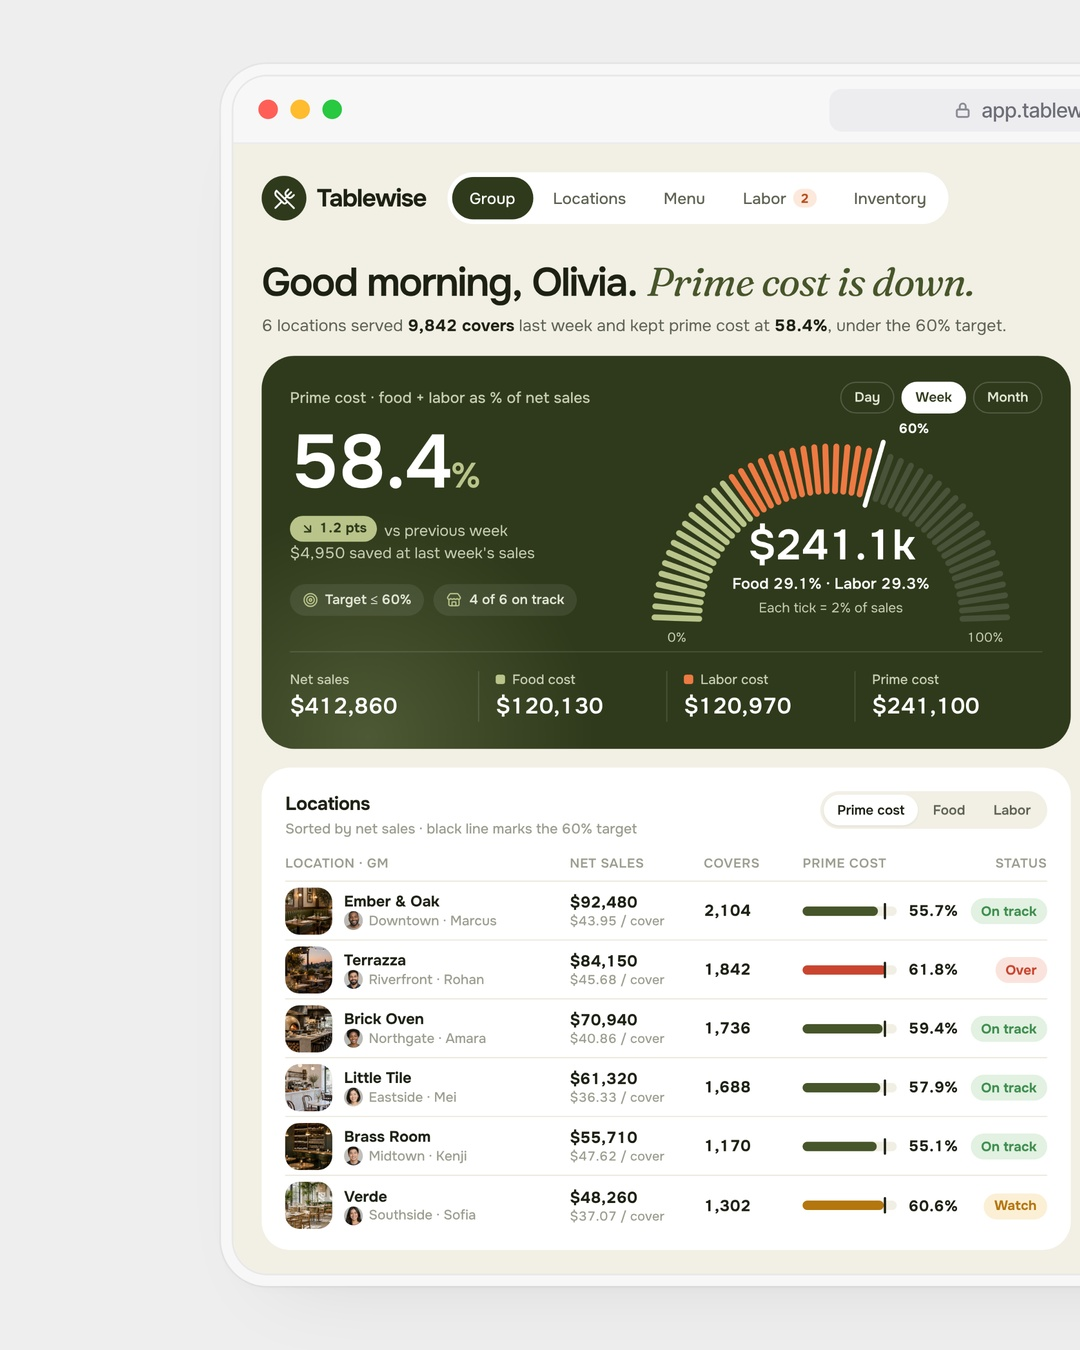
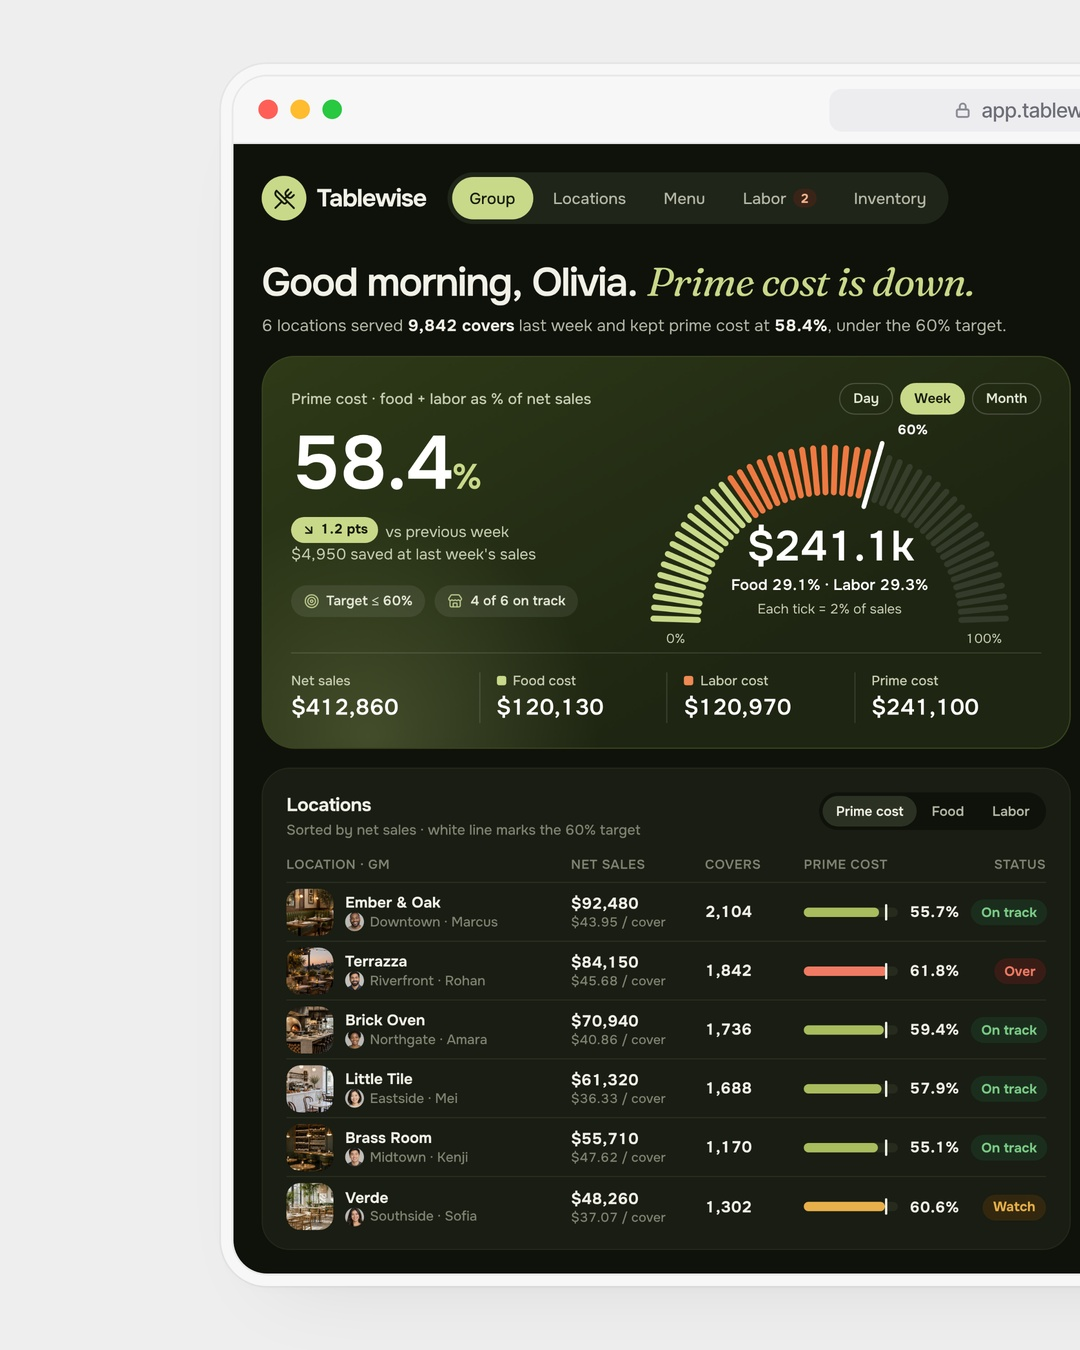
Switch to dark-only posts from 2026-11-25 am; Tablewise dashboard re-rendered dark
Light app/website slots go back to planned for dark redesigns that need owner approval.

Claude-Session: https://claude.ai/code/session_01Rx7czzT9PpRg1HyNHJDzdx

diff --git a/designs/2026-11-25-am-tablewise-restaurant-dashboard/screen.html b/designs/2026-11-25-am-tablewise-restaurant-dashboard/screen.html
@@ -121,16 +121,42 @@ html,body{width:1440px;height:960px;overflow:hidden;background:var(--bg);font-fa
 .sh .tx b{color:var(--ink);font-size:12px}
 .abtn{display:flex;gap:8px;margin-top:12px}
 .abtn span{flex:1;height:36px;border-radius:999px;display:flex;align-items:center;justify-content:center;gap:6px;font-size:12.5px;font-weight:600}
+:root{--bg:#0F120B;--card:#191D13;--line:#2A2F21;--ink:#F2F1E8;--ink2:#B4B8A6;--ink3:#7F8473;--ol:#C9D98A;--ol2:#A9BC5E;--ol3:#C9D98A;--ol4:#22281A;--ap:#F08A55;--ap2:#3A2418;--gr:#7BCB86;--gr2:#1B2E1E;--am:#E8B04A;--am2:#33280F;--rd:#F07A63;--rd2:#3A1C17;--sf:#20251A}
+/* dark theme overrides */
+.ib,.btn,.nav,.srch,.user,.stack{background:var(--sf)}
+.ib b{border-color:var(--sf)}
+.srch kbd{border-color:#363C2C}
+.nav a.on{background:var(--ol);color:#151A0C}
+.nav a em{color:#F7B48F}
+.logo i{background:var(--ol)}
+.prim{background:var(--ol);color:#151A0C}
+.stack .ph,.stack em{border-color:var(--sf)}
+.seg span.on{background:#2C3223;color:var(--ink);box-shadow:none}
+.hero{background:linear-gradient(150deg,#2E3A18 0%,#1E2512 70%);border:1px solid #39441F}
+.hero:before{background:radial-gradient(circle,rgba(201,217,138,.20),rgba(201,217,138,0) 66%)}
+.hk .tg span.on{background:var(--ol);color:#151A0C;border-color:var(--ol)}
+.hl .d .pill{background:var(--ol);color:#151A0C}
+.big small{color:var(--ol)}
+.pb .bar{background:#262B1E}
+.pb .bar u{background:#F2F1E8}
+.k .kt i{background:#262B1E}
+.k.fill{background:var(--ap);color:#1A0E07}
+.k.fill .kt{color:#3B1C0C}.k.fill .kt i{background:rgba(0,0,0,.12)}.k.fill .kv small,.k.fill .ks{color:#4A2410}
+.al{background:linear-gradient(160deg,#243016,#191D13);border:1px solid #2F3A1C}
+.ai .ic{background:var(--ol)}
+.alt{background:#232A19}
+.card{border:1px solid #23281B}
+.greet h1 .serif{color:var(--ol)}
 </style></head><body>
 <div class="page">
  <div class="top">
-  <div class="logo"><i>{{icon:utensils-crossed:19:#ffffff:2}}</i>Tablewise</div>
+  <div class="logo"><i>{{icon:utensils-crossed:19:#151A0C:2}}</i>Tablewise</div>
   <div class="nav"><a class="on">Group</a><a>Locations</a><a>Menu</a><a>Labor <em>2</em></a><a>Inventory</a></div>
  </div>
  <div class="top">
-  <div class="srch">{{icon:search:17:#9A9D8E}}Search locations, dishes, staff…<kbd>⌘K</kbd></div>
-  <div class="ib">{{icon:bell:18:#1D2114}}<b></b></div>
-  <div class="ib">{{icon:settings-2:18:#1D2114}}</div>
+  <div class="srch">{{icon:search:17:#7F8473}}Search locations, dishes, staff…<kbd>⌘K</kbd></div>
+  <div class="ib">{{icon:bell:18:#F2F1E8}}<b></b></div>
+  <div class="ib">{{icon:settings-2:18:#F2F1E8}}</div>
   <div class="user"><div class="ph" style="width:40px;height:40px;background-image:url(olivia.jpg)"></div><div><b>Olivia Grant</b><span>Director of Ops · Fennel Group</span></div></div>
  </div>
 
@@ -139,9 +165,9 @@ html,body{width:1440px;height:960px;overflow:hidden;background:var(--bg);font-fa
   <p>6 locations served <b>9,842 covers</b> last week and kept prime cost at <b>58.4%</b>, under the 60% target.</p>
  </div>
  <div class="acts">
-  <div class="btn">{{icon:calendar:16:#1D2114}}Nov 18 – Nov 24{{icon:chevron-down:15:#9A9D8E}}</div>
-  <div class="btn">{{icon:download:16:#1D2114}}Export</div>
-  <div class="btn prim">{{icon:sparkles:16:#ffffff}}Ask Tablewise</div>
+  <div class="btn">{{icon:calendar:16:#F2F1E8}}Nov 18 – Nov 24{{icon:chevron-down:15:#7F8473}}</div>
+  <div class="btn">{{icon:download:16:#F2F1E8}}Export</div>
+  <div class="btn prim">{{icon:sparkles:16:#151A0C}}Ask Tablewise</div>
   <div class="stack"><div class="ph" style="background-image:url(marcus.jpg)"></div><div class="ph" style="background-image:url(mei.jpg)"></div><div class="ph" style="background-image:url(rohan.jpg)"></div><em>+3</em></div>
  </div>
 
@@ -152,7 +178,7 @@ html,body{width:1440px;height:960px;overflow:hidden;background:var(--bg);font-fa
    <div class="hmain">
     <div class="hl">
      <div class="big">58.4<small>%</small></div>
-     <div class="d"><span class="pill">{{icon:arrow-down-right:12:#2F3A1C:2.5}}1.2 pts</span>vs previous week<br>$4,950 saved at last week's sales</div>
+     <div class="d"><span class="pill">{{icon:arrow-down-right:12:#151A0C:2.5}}1.2 pts</span>vs previous week<br>$4,950 saved at last week's sales</div>
      <div class="tgt"><span>{{icon:target:13:#B9C48A}}Target ≤ 60%</span><span>{{icon:store:13:#B9C48A}}4 of 6 on track</span></div>
     </div>
     <div class="gauge"><svg id="g" width="360" height="190" viewBox="0 0 360 190" style="overflow:visible"></svg>
@@ -168,7 +194,7 @@ html,body{width:1440px;height:960px;overflow:hidden;background:var(--bg);font-fa
   </div>
 
   <div class="card tbl">
-   <div class="ch"><div><div class="t">Locations</div><div class="s">Sorted by net sales · black line marks the 60% target</div></div>
+   <div class="ch"><div><div class="t">Locations</div><div class="s">Sorted by net sales · white line marks the 60% target</div></div>
     <div class="seg"><span class="on">Prime cost</span><span>Food</span><span>Labor</span></div></div>
    <div class="th"><div>Location · GM</div><div>Net sales</div><div>Covers</div><div>Prime cost</div><div style="text-align:right">Status</div></div>
    <div class="tr"><div class="loc"><div class="pimg" style="width:40px;height:40px;background-image:url(r1.jpg)"></div><div><b>Ember &amp; Oak</b><span><i class="ph" style="background-image:url(marcus.jpg)"></i>Downtown · Marcus</span></div></div><div class="v">$92,480<small>$43.95 / cover</small></div><div class="v">2,104</div><div class="pb"><div class="bar"><i style="width:79.6%;background:var(--ol2)"></i><u></u></div><b>55.7%</b></div><div style="text-align:right"><span class="pill ok">On track</span></div></div>
@@ -183,10 +209,10 @@ html,body{width:1440px;height:960px;overflow:hidden;background:var(--bg);font-fa
  <!-- RIGHT HALF -->
  <div class="half">
   <div class="kpis">
-   <div class="k fill"><div class="kt">Covers<i>{{icon:users:14:#ffffff}}</i></div><div class="kv">9,842</div><div class="ks"><b>+4.1%</b> vs last week</div></div>
-   <div class="k card"><div class="kt">Avg check<i>{{icon:receipt:14:#1D2114}}</i></div><div class="kv">$41.95</div><div class="ks"><b style="color:var(--gr)">+$1.20</b> per cover</div></div>
-   <div class="k card"><div class="kt">Table turns<i>{{icon:refresh-ccw:14:#1D2114}}</i></div><div class="kv">2.6<small>×</small></div><div class="ks">dinner · <b style="color:var(--gr)">+0.2</b></div></div>
-   <div class="k card"><div class="kt">Food waste<i>{{icon:trash-2:14:#1D2114}}</i></div><div class="kv">2.8<small>%</small></div><div class="ks">of food cost · <b style="color:var(--gr)">−0.6 pts</b></div></div>
+   <div class="k fill"><div class="kt">Covers<i>{{icon:users:14:#1A0E07}}</i></div><div class="kv">9,842</div><div class="ks"><b>+4.1%</b> vs last week</div></div>
+   <div class="k card"><div class="kt">Avg check<i>{{icon:receipt:14:#F2F1E8}}</i></div><div class="kv">$41.95</div><div class="ks"><b style="color:var(--gr)">+$1.20</b> per cover</div></div>
+   <div class="k card"><div class="kt">Table turns<i>{{icon:refresh-ccw:14:#F2F1E8}}</i></div><div class="kv">2.6<small>×</small></div><div class="ks">dinner · <b style="color:var(--gr)">+0.2</b></div></div>
+   <div class="k card"><div class="kt">Food waste<i>{{icon:trash-2:14:#F2F1E8}}</i></div><div class="kv">2.8<small>%</small></div><div class="ks">of food cost · <b style="color:var(--gr)">−0.6 pts</b></div></div>
   </div>
 
   <div class="card chart">
@@ -206,13 +232,13 @@ html,body{width:1440px;height:960px;overflow:hidden;background:var(--bg);font-fa
     </div>
    </div>
    <div class="card al" style="width:316px;flex:none">
-    <div class="ai"><div class="ic">{{icon:sparkles:17:#ffffff}}</div><div><div class="t">Tablewise suggests</div><div class="s" style="color:var(--ink2)">2 fixes · about $1,380 a week</div></div></div>
+    <div class="ai"><div class="ic">{{icon:sparkles:17:#151A0C}}</div><div><div class="t">Tablewise suggests</div><div class="s" style="color:var(--ink2)">2 fixes · about $1,380 a week</div></div></div>
     <div class="alt">
      <h4><span class="pill ov">Labor</span>Terrazza, tonight</h4>
      <p><b>3 servers</b> are scheduled past 21:30, but only <b>14 covers</b> are booked after 21:00.</p>
-     <div class="sh"><div class="ph" style="background-image:url(daniel.jpg)"></div><div class="ph" style="background-image:url(karim.jpg)"></div><span class="ar">{{icon:arrow-right:14:#9A9D8E}}</span><div class="tx"><b>Cut 1 shift at 21:30</b><br>saves $96 tonight</div></div>
+     <div class="sh"><div class="ph" style="background-image:url(daniel.jpg)"></div><div class="ph" style="background-image:url(karim.jpg)"></div><span class="ar">{{icon:arrow-right:14:#7F8473}}</span><div class="tx"><b>Cut 1 shift at 21:30</b><br>saves $96 tonight</div></div>
     </div>
-    <div class="abtn"><span style="background:var(--ol);color:#fff">{{icon:check:14:#ffffff:2.5}}Apply</span><span style="background:#fff">Review all</span></div>
+    <div class="abtn"><span style="background:var(--ol);color:#151A0C">{{icon:check:14:#151A0C:2.5}}Apply</span><span style="background:#2C3223">Review all</span></div>
    </div>
   </div>
  </div>
@@ -223,8 +249,8 @@ html,body{width:1440px;height:960px;overflow:hidden;background:var(--bg);font-fa
  const g=document.getElementById('g'),cx=180,cy=170,r1=112,r2=150,N=50;let s='';
  for(let i=0;i<N;i++){
   const a=Math.PI*(1-(i+0.5)/N),c=Math.cos(a),n=Math.sin(a);
-  const v=(i+0.5)*2; let col='rgba(255,255,255,.13)';
-  if(v<=29.1)col='#B9C48A'; else if(v<=58.4)col='#EE7A43';
+  const v=(i+0.5)*2; let col='rgba(255,255,255,.10)';
+  if(v<=29.1)col='#C9D98A'; else if(v<=58.4)col='#EE7A43';
   const big=(i==29);
   const ri=big?r1-8:r1, ro=big?r2+10:r2;
   s+=`<line x1="${cx+ri*c}" y1="${cy-ri*n}" x2="${cx+ro*c}" y2="${cy-ro*n}" stroke="${big?'#ffffff':col}" stroke-width="${big?4:5}" stroke-linecap="round"/>`;
@@ -243,16 +269,16 @@ html,body{width:1440px;height:960px;overflow:hidden;background:var(--bg);font-fa
  const y=[1.8,6.4,7.1,3.2,1.9,2.4,5.6,8.9,10.4,7.8,3.9,1.5];
  const ly=[1.6,6.0,6.6,3.4,1.7,2.1,5.0,8.3,9.6,7.4,3.6,1.7];
  const L=40,R=640,T=12,B=192,max=12;const X=i=>L+(R-L)/12*(i+.5),Y=v=>B-(B-T)*v/max,bw=30;let s='';
- for(let v=0;v<=12;v+=3){s+=`<line x1="${L}" x2="${R}" y1="${Y(v)}" y2="${Y(v)}" stroke="#ECE8DC" ${v?'stroke-dasharray="3 4"':''}/><text x="${L-10}" y="${Y(v)+4}" text-anchor="end" font-family="Onest" font-size="11" fill="#9A9D8E">$${v}k</text>`}
- s+=`<defs><pattern id="h" width="6" height="6" patternUnits="userSpaceOnUse" patternTransform="rotate(45)"><rect width="6" height="6" fill="#E6EBCF"/><line x1="0" y1="0" x2="0" y2="6" stroke="#CFD8A8" stroke-width="2.4"/></pattern></defs>`;
- y.forEach((v,i)=>{const hi=i==8;s+=`<rect x="${X(i)-bw/2}" y="${Y(v)}" width="${bw}" height="${B-Y(v)}" rx="8" fill="${hi?'#46552A':'url(#h)'}"/>`;
-  s+=`<text x="${X(i)}" y="${B+20}" text-anchor="middle" font-family="Onest" font-size="11" fill="${hi?'#1D2114':'#9A9D8E'}" font-weight="${hi?700:400}">${hrs[i]}:00</text>`});
+ for(let v=0;v<=12;v+=3){s+=`<line x1="${L}" x2="${R}" y1="${Y(v)}" y2="${Y(v)}" stroke="#2A2F21" ${v?'stroke-dasharray="3 4"':''}/><text x="${L-10}" y="${Y(v)+4}" text-anchor="end" font-family="Onest" font-size="11" fill="#7F8473">$${v}k</text>`}
+ s+=`<defs><pattern id="h" width="6" height="6" patternUnits="userSpaceOnUse" patternTransform="rotate(45)"><rect width="6" height="6" fill="#23291A"/><line x1="0" y1="0" x2="0" y2="6" stroke="#3B4528" stroke-width="2.4"/></pattern></defs>`;
+ y.forEach((v,i)=>{const hi=i==8;s+=`<rect x="${X(i)-bw/2}" y="${Y(v)}" width="${bw}" height="${B-Y(v)}" rx="8" fill="${hi?'#C9D98A':'url(#h)'}"/>`;
+  s+=`<text x="${X(i)}" y="${B+20}" text-anchor="middle" font-family="Onest" font-size="11" fill="${hi?'#F2F1E8':'#7F8473'}" font-weight="${hi?700:400}">${hrs[i]}:00</text>`});
  let p='';ly.forEach((v,i)=>{p+=(i?'L':'M')+X(i)+' '+Y(v)});
- s+=`<path d="${p}" fill="none" stroke="#EE7A43" stroke-width="2.5" stroke-linejoin="round" stroke-dasharray="1 0"/>`;
- ly.forEach((v,i)=>{s+=`<circle cx="${X(i)}" cy="${Y(v)}" r="3" fill="#fff" stroke="#EE7A43" stroke-width="2"/>`});
+ s+=`<path d="${p}" fill="none" stroke="#F08A55" stroke-width="2.5" stroke-linejoin="round" stroke-dasharray="1 0"/>`;
+ ly.forEach((v,i)=>{s+=`<circle cx="${X(i)}" cy="${Y(v)}" r="3" fill="#191D13" stroke="#F08A55" stroke-width="2"/>`});
  const tx=X(8),ty=Y(10.4);
- s+=`<g transform="translate(${tx-bw/2-12-212},0)"><rect width="212" height="52" rx="12" fill="#1D2114"/><text x="12" y="20" font-family="Onest" font-size="11" fill="#B8BBAE">19:00 – 20:00 · dinner peak</text><text x="12" y="40" font-family="Onest" font-size="15" font-weight="700" fill="#fff">$10,400</text><text x="200" y="40" text-anchor="end" font-family="Onest" font-size="11" font-weight="700" fill="#B9C48A">+$800 · 248 covers</text></g>`;
- s+=`<line x1="${tx-bw/2-12}" x2="${tx-bw/2-2}" y1="40" y2="40" stroke="#1D2114" stroke-width="1.5"/>`;
+ s+=`<g transform="translate(${tx-bw/2-12-212},0)"><rect width="212" height="52" rx="12" fill="#F2F1E8"/><text x="12" y="20" font-family="Onest" font-size="11" fill="#5D6252">19:00 – 20:00 · dinner peak</text><text x="12" y="40" font-family="Onest" font-size="15" font-weight="700" fill="#151A0C">$10,400</text><text x="200" y="40" text-anchor="end" font-family="Onest" font-size="11" font-weight="700" fill="#4E6B1E">+$800 · 248 covers</text></g>`;
+ s+=`<line x1="${tx-bw/2-12}" x2="${tx-bw/2-2}" y1="40" y2="40" stroke="#F2F1E8" stroke-width="1.5"/>`;
  c.innerHTML=s;
 })();
 </script>

diff --git a/PLAYBOOK.md b/PLAYBOOK.md
@@ -12,6 +12,18 @@ Match these approved posts exactly in presentation; only the design inside the s
 Always: 1080×1350, `#EEEEEE` background, light UI, the brand chrome ("Designed by" bar on all types, WhatsApp pill on dashboards only, see below) on the design slides; the fixed CTA slide stays last.
 Do not edit `tools/render.py` or the mockup assets unless the owner asks.
 
+## DARK ONLY (owner, 2026-11-24 night — overrides every "light UI" rule above, from 2026-11-25 am on)
+
+- Every post from 2026-11-25 am is a **dark version**: dark apps, dark dashboards, dark websites. No light UI designs any more.
+  Where this file says "Light UI only", "off-white/white surfaces" or "light footer", read it as dark: near-black or deep tinted
+  surfaces (e.g. #0F120B, #111318, #0E1116), cards one step lighter with a 1px hairline border, light ink text, the slot's palette as
+  bright accents that read well on dark. Keep contrast readable (body text at least #B0B0B0-ish on the dark surface).
+- Unchanged: the locked carousel formats, the #EEEEEE studio background, the mockups (phone, browser window), the brand chrome and the fixed CTA slide.
+- Light designs already made for later slots are kept for history (`light_design_dir` in calendar.json); those slots are `planned`
+  again and must be redesigned dark (same niche and brand; their photos can be reused).
+- **Approval (owner, 2026-11-24):** dark app and dark website designs are set `ready-pending-approval` and are NOT posted until the owner
+  approves them. Dark dashboards post automatically as before. Example dark dashboard: `designs/2026-11-25-am-tablewise-restaurant-dashboard`.
+
 ## The schedule
 
 - Two posts a day, Asia/Dhaka time: **morning 08:37** (`am`) and **night 20:39** (`pm`).
